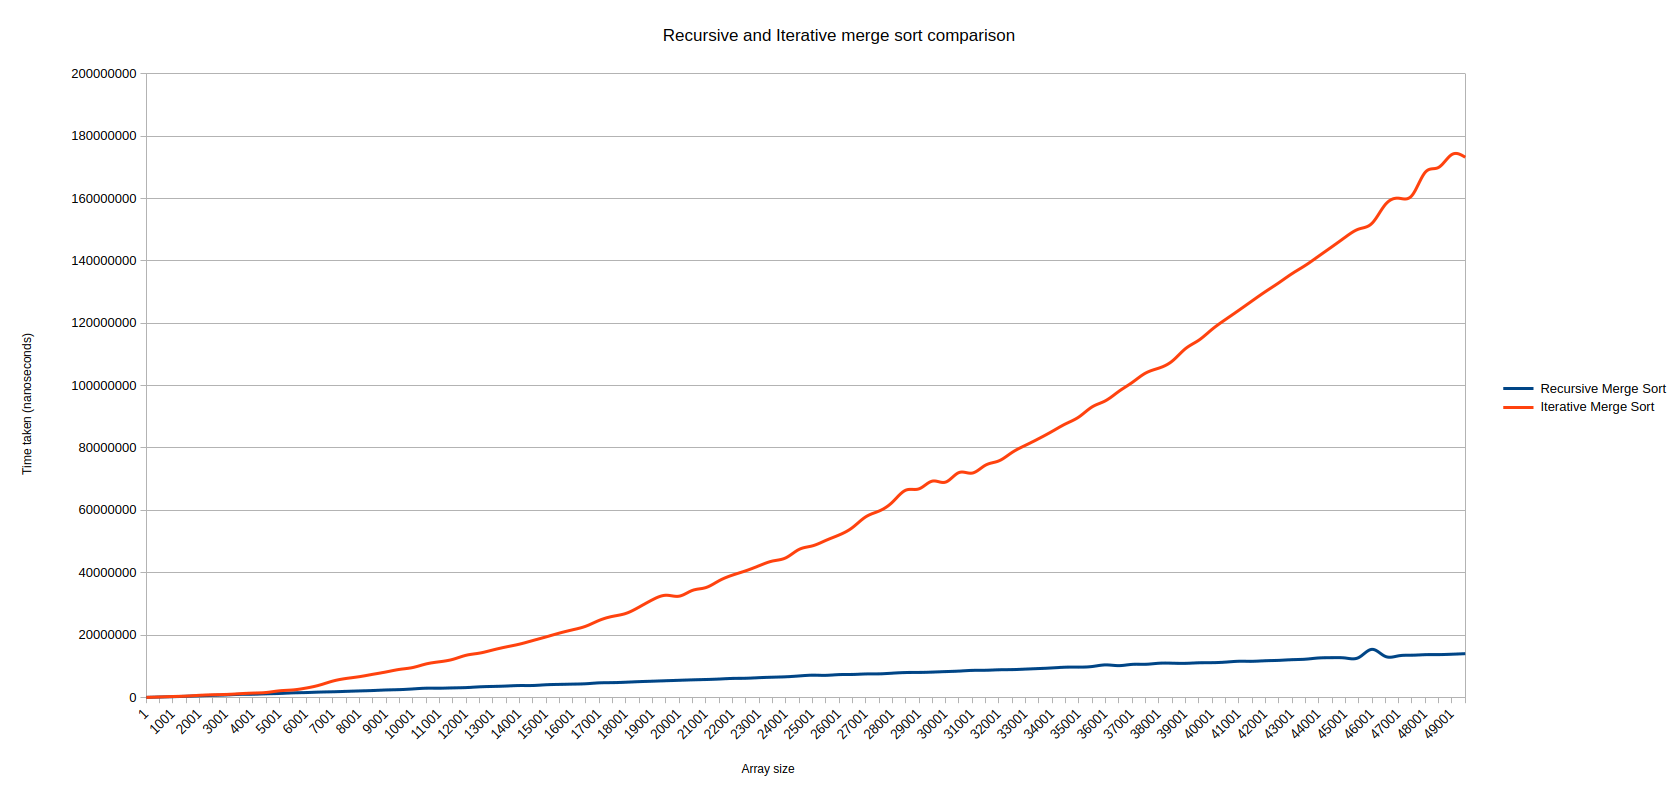
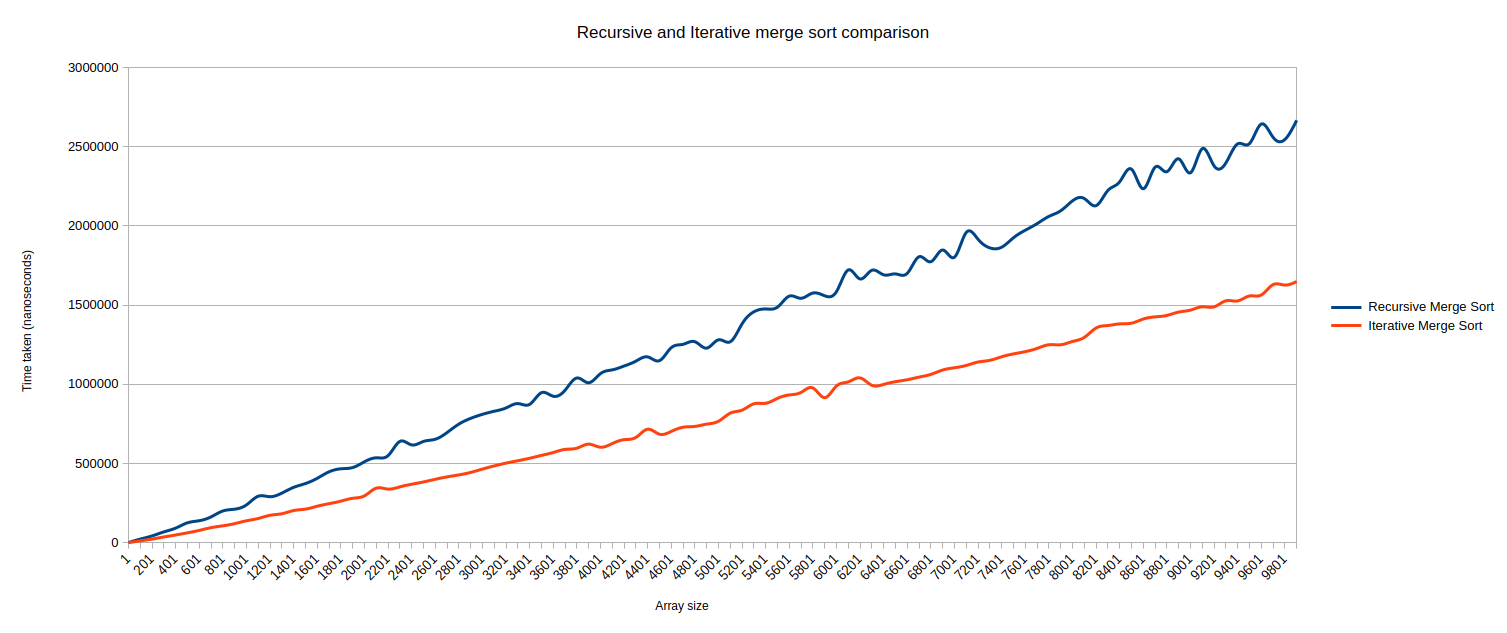
Add a more optimized iterative merge sort algorithm

diff --git a/benchmarks/merge_sort/merge_sort_comparison.cpp b/benchmarks/merge_sort/merge_sort_comparison.cpp
@@ -70,80 +70,62 @@ void merge_sort(vector<int> &arr, int i, int j)
     }
 }
 
-vector<int> merge2(vector<int> arr, int l1, int r1, int l2, int r2)
+void merge2(vector<int> &arr, vector<int> &temp, int l1, int r1, int l2, int r2)
 {
-    vector<int> temp(r2 - l1 + 1);
-    int index = 0;
+    int i = l1;
+    int j = l2;
+    int k = l1;
 
-    while (l1 <= r1 && l2 <= r2)
+    while (i <= r1 && j <= r2)
     {
-        if (arr[l1] <= arr[l2])
+        if (arr[i] <= arr[j])
         {
-            temp[index] = arr[l1];
-            index++;
-            l1++;
+            temp[k++] = arr[i++];
         }
         else
         {
-            temp[index] = arr[l2];
-            index++;
-            l2++;
+            temp[k++] = arr[j++];
         }
     }
 
-    while (l1 <= r1)
+    while (i <= r1)
     {
-        temp[index] = arr[l1];
-        index++;
-        l1++;
+        temp[k++] = arr[i++];
     }
 
-    while (l2 <= r2)
+    while (j <= r2)
     {
-        temp[index] = arr[l2];
-        index++;
-        l2++;
+        temp[k++] = arr[j++];
     }
-    return temp;
+
+    for (int x = l1; x <= r2; x++)
+    {
+        arr[x] = temp[x];
+    }
 }
 
-vector<int> merge_sort2(vector<int> arr, int n)
+void merge_sort2(vector<int> &arr)
 {
+    int n = arr.size();
+    vector<int> temp(n);
     int len = 1;
 
     while (len < n)
     {
-        int i = 0;
-
-        while (i < n)
+        for (int i = 0; i < n; i += 2 * len)
         {
             int l1 = i;
-            int r1 = i + len - 1;
+            int r1 = min(i + len - 1, n - 1);
             int l2 = i + len;
-            int r2 = i + 2 * len - 1;
+            int r2 = min(i + 2 * len - 1, n - 1);
 
-            if (l2 >= n)
+            if (l2 < n)
             {
-                break;
+                merge2(arr, temp, l1, r1, l2, r2);
             }
-
-            if (r2 >= n)
-            {
-                r2 = n - 1;
-            }
-
-            auto temp = merge2(arr, l1, r1, l2, r2);
-
-            for (int j = 0; j <= r2 - l1; j++)
-            {
-                arr[i + j] = temp[j];
-            }
-
-            i = i + 2 * len;
         }
-        len = 2 * len;
+        len *= 2;
     }
-    return arr;
 }
 
 vector<int> rand_array(int size)
@@ -173,15 +155,14 @@ void recursive_merge_sort(vector<int> arr)
 
 void iterative_merge_sort(vector<int> arr)
 {
-    int n = arr.size();
-    merge_sort2(arr, n);
+    merge_sort2(arr);
 }
 
 int main(int argc, char *argv[])
 {
     vector<vector<int>> inputs;
-    int max_items = 50000;
-    int gap = 500;
+    int max_items = 10000;
+    int gap = 100;
 
     for (int i = 1; i <= max_items; i += gap)
     {

diff --git a/README.md b/README.md
@@ -9,3 +9,13 @@ Common Data structures and Algorithms programmed by me as a practice exercise
 - Selection sort
 - Iterative merge sort
 - Recursive merge sort
+
+## Sorting algorithm comparison
+
+#### Insertion sort, Bubble Sort and Selection sort comparison
+
+![Insertion sort, Bubble Sort and Selection sort comparison](benchmarks/insertion_bubble_selection_sort/chart.png)
+
+#### Merge sort: iterative vs recursive comparison
+
+![Merge sort: iterative vs recursive comparison](benchmarks/merge_sort/chart.png)
